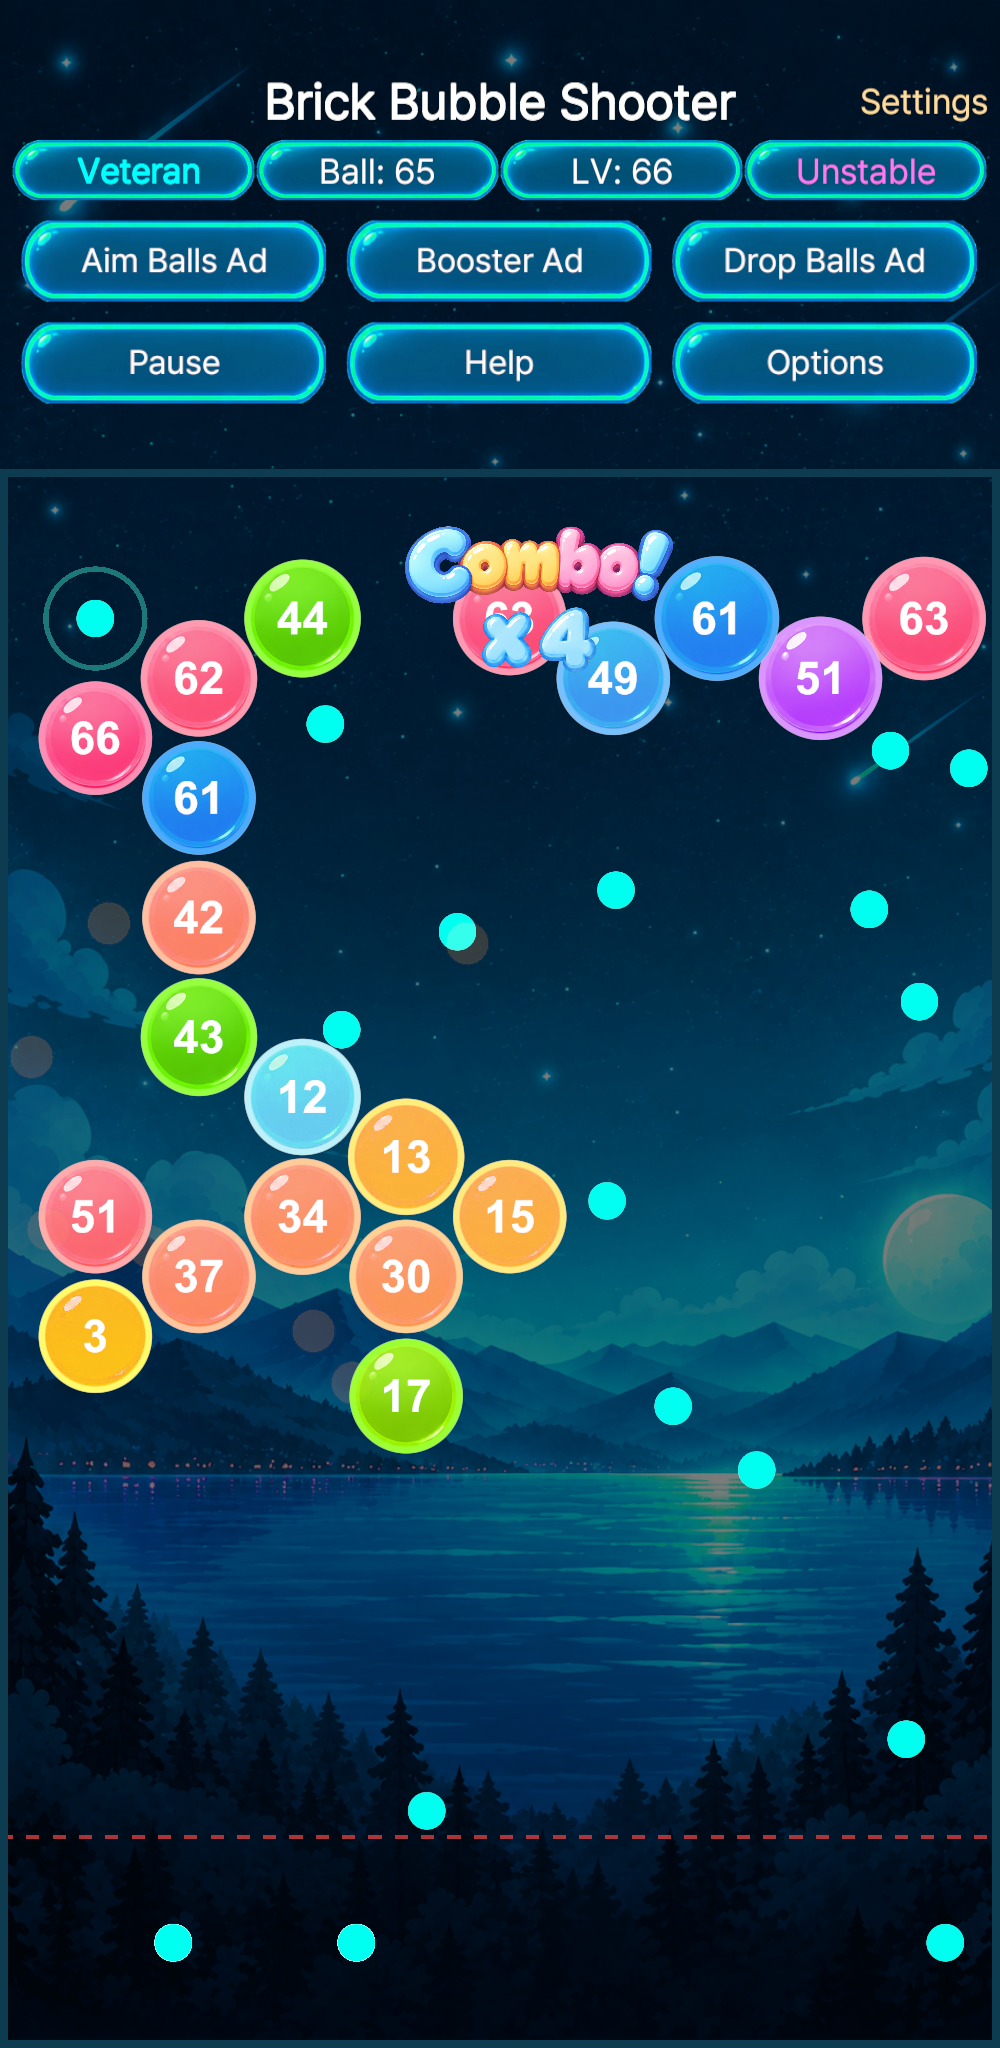
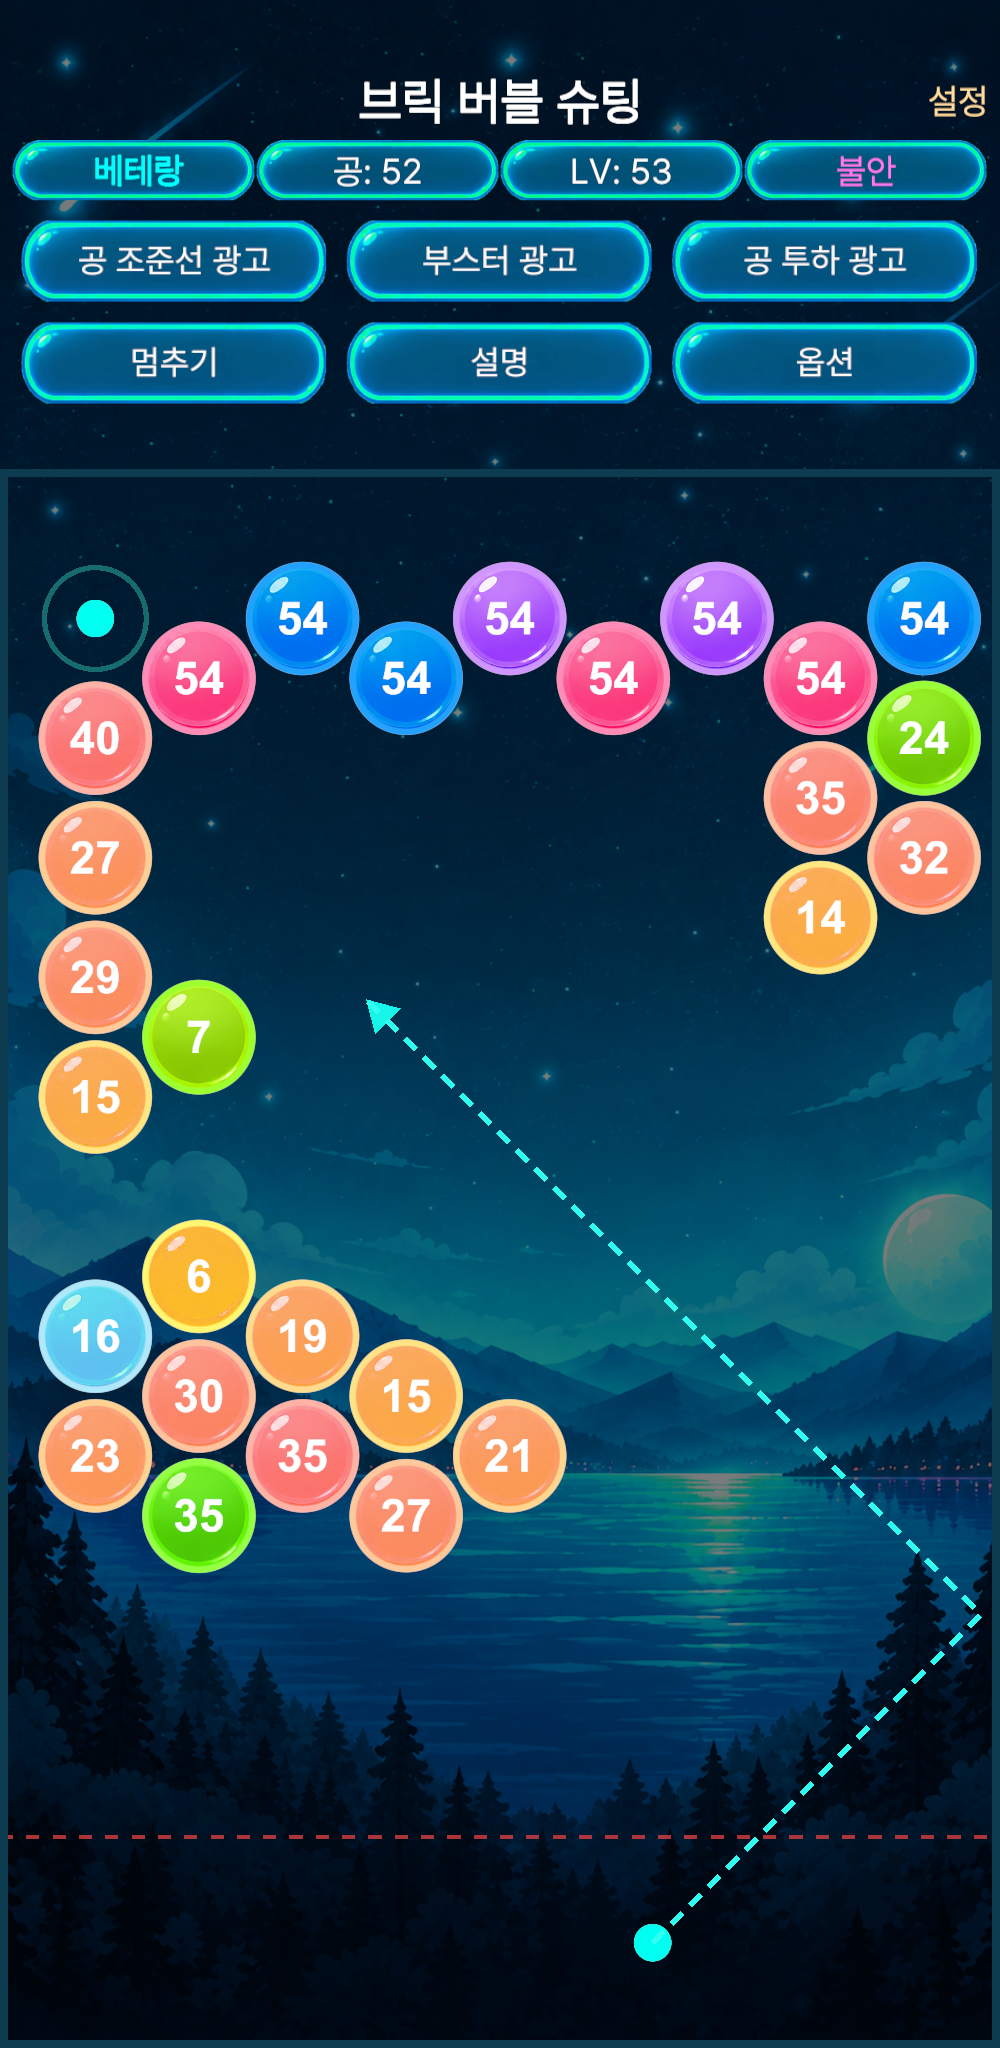
Add files via upload

diff --git a/index.html b/index.html
@@ -9,7 +9,7 @@
 body { font-family: -apple-system, "Segoe UI", "Apple SD Gothic Neo", "Malgun Gothic", sans-serif; max-width: 640px; margin: 60px auto; padding: 0 20px; line-height: 1.6; color: #222; }
 h1 { margin-top: 8px; }
 h1.brand { margin: 8px 0 12px; line-height: 0; }
-h1.brand img { display: block; height: 67px; width: auto; max-width: 100%; margin: 0 auto; }
+h1.brand img { display: block; height: 94px; width: auto; max-width: 100%; margin: 0 auto; }
 .lang-switch { text-align: right; }
 .lang-switch button { font: inherit; font-size: 14px; padding: 6px 14px; margin-left: 6px; border: 1px solid #888; background: #fff; color: #222; border-radius: 6px; cursor: pointer; }
 .lang-switch button.active { background: #222; color: #fff; border-color: #222; }
